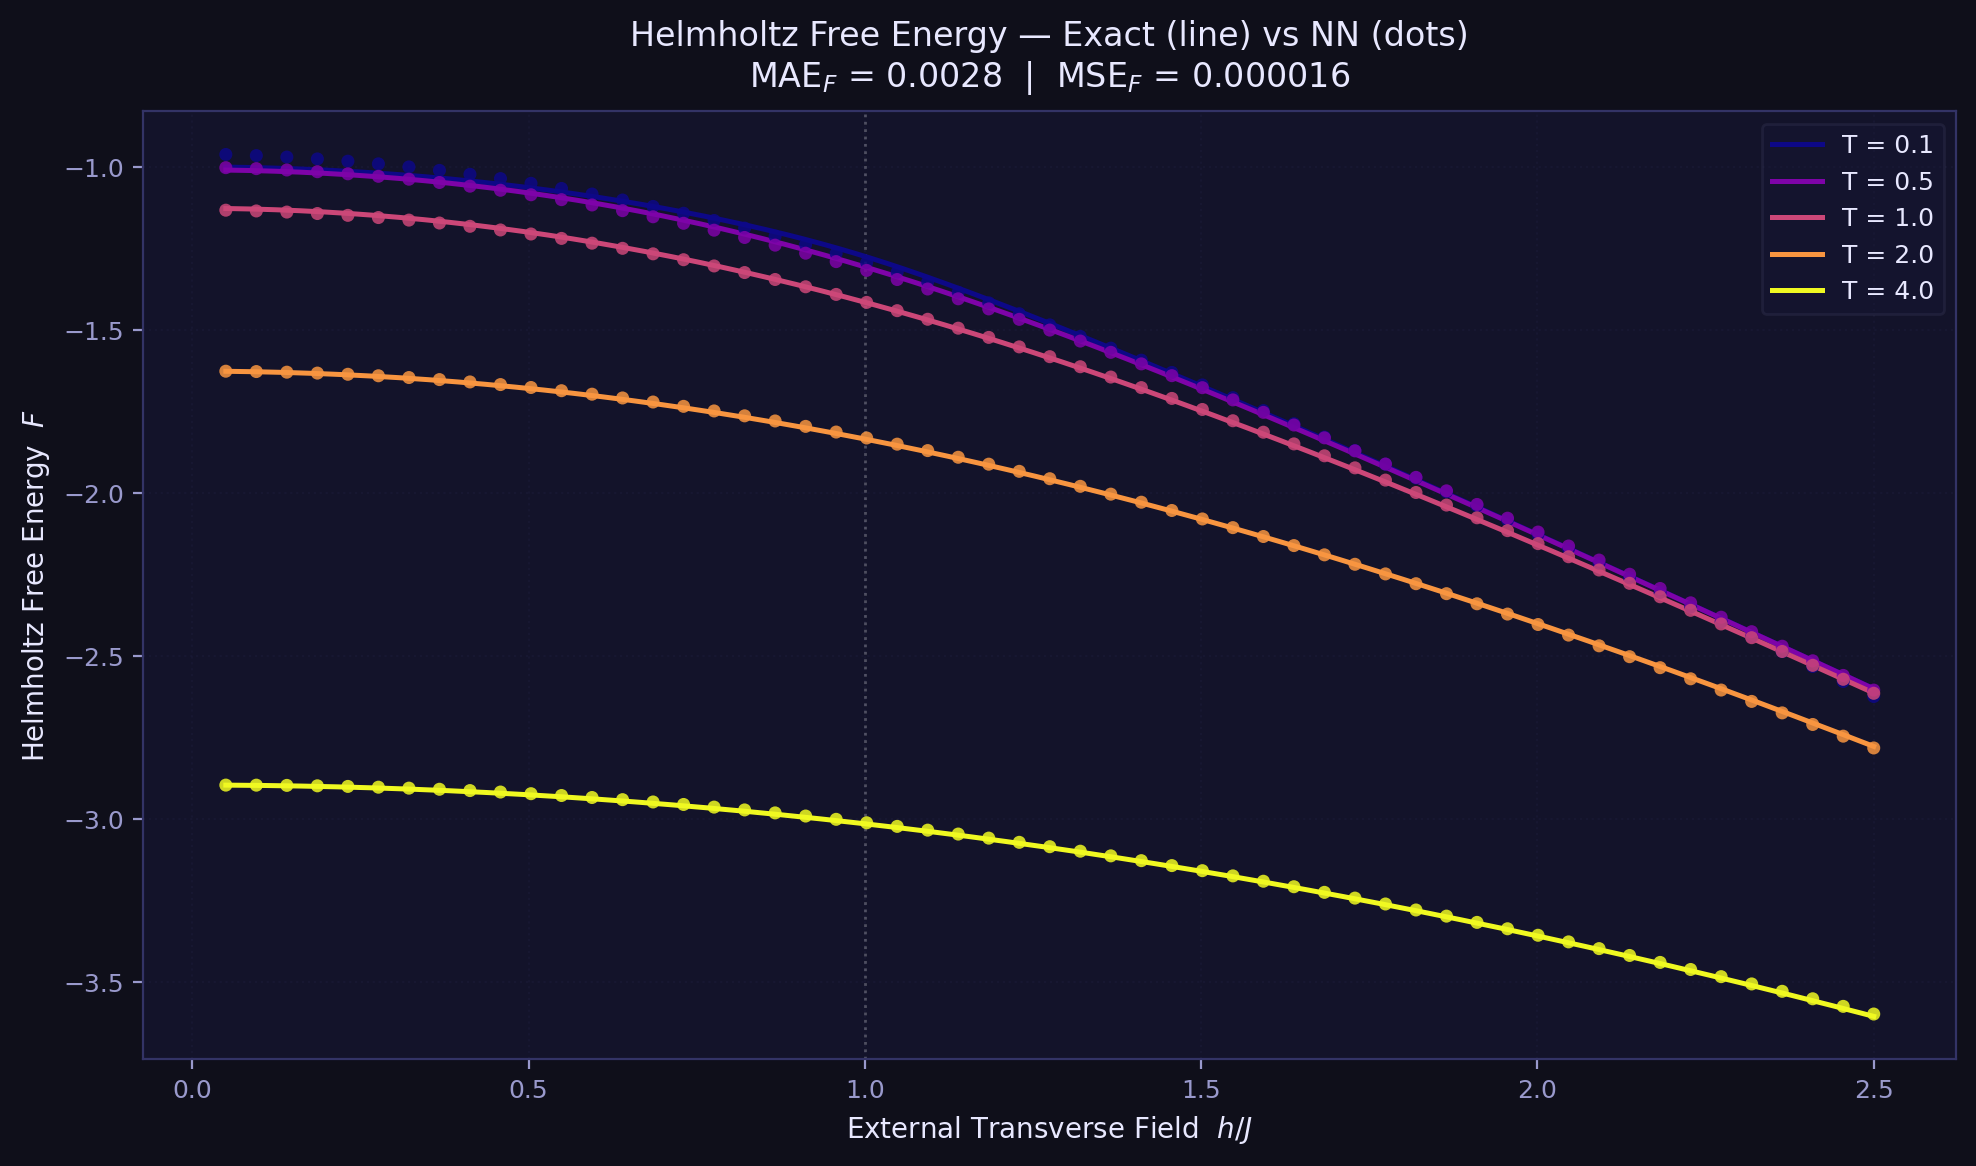
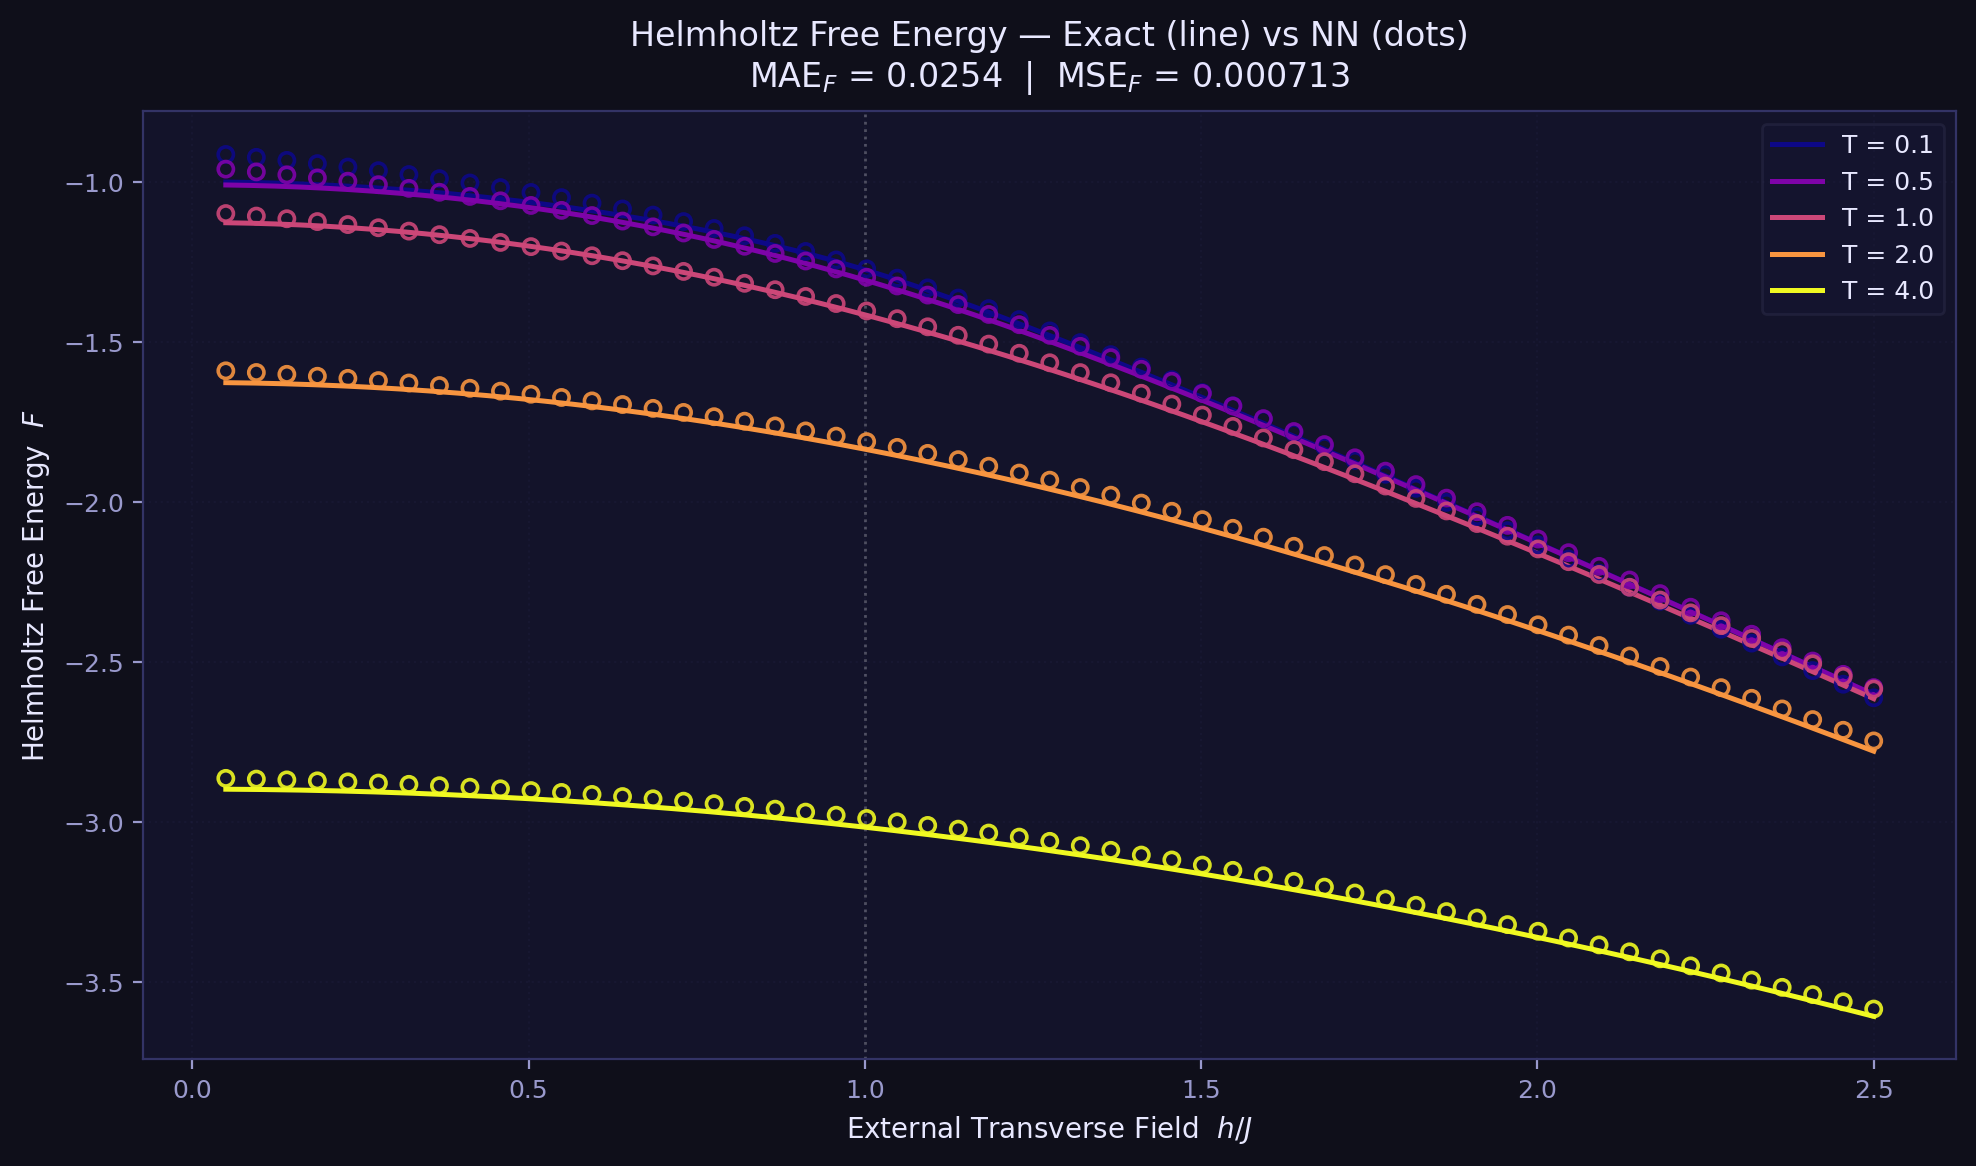
test(nn): switch 2nd output Mz->chi (susceptibility = -d2F/dh2)
Physical fix:
- Mz = -dF/dh (1st deriv) shows monotone curve, no visible phase transition
- chi = -d2F/dh2 (2nd deriv) diverges/peaks at h=1 -> QPT clearly visible
- epsilon 1e-12 -> 1e-8 for 2nd derivative numerical stability

Code changes:
- _mz_raw/_d2F removed, added _d2F_dh2_raw + _chi_raw
- vmap_Mz -> vmap_chi
- Model head renamed: Mz_head -> chi_head
- Dataset labels Y[:,1] now chi instead of Mz
- Eval variables mse_Mz/mae_Mz -> mse_chi/mae_chi

Visualization:
- Fig C title/ylabel updated to susceptibility chi
- Scatter dots: hollow markers (facecolors=none, edgecolors=col) for readability
- figC_magnetization_sweep.png -> figC_susceptibility_sweep.png

Results: F MAE=0.025, chi MAE=0.011, NN 2.3x faster than exact

diff --git a/testJin/nn_learning.py b/testJin/nn_learning.py
@@ -15,26 +15,27 @@ HERE = Path(__file__).parent   # 항상 testJin/ 기준으로 저장
 # ==========================================
 def _free_energy_raw(h, T, num_k=2000):
     """JIT 없는 raw 버전 — grad/vmap 조합 시 사용
-    NOTE: eps_k의 sqrt 안에 1e-12를 더해 h≈1(임계점)에서 gradient NaN 방지
+    NOTE: eps_k의 sqrt 안에 1e-8을 더해 h≈1(임계점)에서 1·2차 gradient NaN 방지
     """
     beta = 1.0 / T
     k = jnp.linspace(0, jnp.pi, num_k)
-    arg = 1.0 + h**2 - 2.0 * h * jnp.cos(k) + 1e-12  # ← numerical stability
+    arg = 1.0 + h**2 - 2.0 * h * jnp.cos(k) + 1e-8   # ← 2차 미분 안정성을 위해 1e-8
     eps_k = 2.0 * jnp.sqrt(arg)
     x = beta * eps_k / 2.0
     return -T * jnp.mean(jnp.logaddexp(x, -x))
 
-# M_z = -∂F/∂h  (열역학 관계식) — raw 위에 grad 걸어야 NaN 없음
+# χ = -∂²F/∂h²  (횡방향 자화율, 2차 미분) — 상전이에서 발산 → 드라마틱한 시인성
 _dF_dh_raw    = jax.grad(_free_energy_raw, argnums=0)
-_mz_raw       = lambda h, T: -_dF_dh_raw(h, T)
+_d2F_dh2_raw  = jax.grad(_dF_dh_raw,      argnums=0)
+_chi_raw      = lambda h, T: -_d2F_dh2_raw(h, T)      # χ = -∂²F/∂h²
 
 # vmap 먼저, jit은 마지막에
-vmap_F  = jax.jit(jax.vmap(_free_energy_raw, in_axes=(0, 0)))
-vmap_Mz = jax.jit(jax.vmap(_mz_raw,         in_axes=(0, 0)))
+vmap_F   = jax.jit(jax.vmap(_free_energy_raw, in_axes=(0, 0)))
+vmap_chi = jax.jit(jax.vmap(_chi_raw,         in_axes=(0, 0)))
 
 # ==========================================
 # 2. 모델 정의 (멀티태스크 Surrogate)
-#    입력: (T, h)  →  출력: (F, M_z)
+#    입력: (T, h)  →  출력: (F, χ)
 # ==========================================
 # 입력 정규화 상수 (학습 안정성)
 T_SCALE = 8.0    # T  ∈ [0.05, 8.0]  → [~0, 1]
@@ -55,24 +56,24 @@ class TFIMSurrogate(nn.Module):
         z = nn.Dense(self.hidden_dims)(z)
         z = nn.softplus(z)
         # 각 물리량별 head
-        F_head  = nn.Dense(self.hidden_dims // 2)(z)
-        F_head  = nn.softplus(F_head)
-        F_pred  = nn.Dense(1)(F_head)                    # 자유에너지
+        F_head   = nn.Dense(self.hidden_dims // 2)(z)
+        F_head   = nn.softplus(F_head)
+        F_pred   = nn.Dense(1)(F_head)                   # 자유에너지
 
-        Mz_head = nn.Dense(self.hidden_dims // 2)(z)
-        Mz_head = nn.softplus(Mz_head)
-        Mz_pred = nn.Dense(1)(Mz_head)                   # 자화
+        chi_head = nn.Dense(self.hidden_dims // 2)(z)
+        chi_head = nn.softplus(chi_head)
+        chi_pred = nn.Dense(1)(chi_head)                 # 횡방향 자화율 χ = -∂²F/∂h²
 
-        return jnp.concatenate([F_pred, Mz_pred], axis=-1)  # (batch, 2)
+        return jnp.concatenate([F_pred, chi_pred], axis=-1)  # (batch, 2)
 
 # ==========================================
 # 3. 데이터셋 생성
 #    X: (N, 2)  = [T, h]
-#    Y: (N, 2)  = [F, M_z]
+#    Y: (N, 2)  = [F, χ]   ← χ = -∂²F/∂h² (횡방향 자화율)
 # ==========================================
 def generate_dataset(num_samples: int = 15000):
     print(f"\n--- 데이터 생성 ---")
-    print(f"총 {num_samples}개의 레이블 데이터 (T, h) → (F, Mz) 생성 중...")
+    print(f"총 {num_samples}개의 레이블 데이터 (T, h) → (F, χ) 생성 중...")
 
     key = random.PRNGKey(42)
     key_t, key_h, key_shuf = random.split(key, 3)
@@ -84,17 +85,17 @@ def generate_dataset(num_samples: int = 15000):
     h_samp = random.uniform(key_h, (num_samples,), minval=0.05, maxval=2.5)
 
     # JIT 워밍업
-    _ = vmap_F( h_samp[:2], T_samp[:2])
-    _ = vmap_Mz(h_samp[:2], T_samp[:2])
+    _ = vmap_F(  h_samp[:2], T_samp[:2])
+    _ = vmap_chi(h_samp[:2], T_samp[:2])
 
     t0 = time.time()
-    F_vals  = vmap_F( h_samp, T_samp)
-    Mz_vals = vmap_Mz(h_samp, T_samp)
-    jax.block_until_ready(F_vals); jax.block_until_ready(Mz_vals)
+    F_vals   = vmap_F(  h_samp, T_samp)
+    chi_vals = vmap_chi(h_samp, T_samp)
+    jax.block_until_ready(F_vals); jax.block_until_ready(chi_vals)
     print(f"데이터 생성 소요 시간: {time.time()-t0:.4f} 초")
 
-    X = jnp.stack([T_samp, h_samp], axis=1)              # (N, 2)
-    Y = jnp.stack([F_vals, Mz_vals], axis=1)             # (N, 2)
+    X = jnp.stack([T_samp, h_samp], axis=1)               # (N, 2)
+    Y = jnp.stack([F_vals, chi_vals], axis=1)              # (N, 2)
 
     # 셔플 후 8:2 분할
     idx = random.permutation(key_shuf, num_samples)
@@ -186,22 +187,22 @@ if __name__ == "__main__":
     # Exact 재계산 시간
     _ = vmap_F(X_te[:1, 1], X_te[:1, 0])           # 워밍업
     t0 = time.time()
-    F_exact  = vmap_F( X_te[:, 1], X_te[:, 0])
-    Mz_exact = vmap_Mz(X_te[:, 1], X_te[:, 0])
-    jax.block_until_ready(F_exact); jax.block_until_ready(Mz_exact)
+    F_exact   = vmap_F(  X_te[:, 1], X_te[:, 0])
+    chi_exact = vmap_chi(X_te[:, 1], X_te[:, 0])
+    jax.block_until_ready(F_exact); jax.block_until_ready(chi_exact)
     exact_time = time.time() - t0
 
-    F_pred_te  = Y_pred[:, 0]
-    Mz_pred_te = Y_pred[:, 1]
+    F_pred_te   = Y_pred[:, 0]
+    chi_pred_te = Y_pred[:, 1]
 
-    mse_F  = float(jnp.mean((F_pred_te  - Y_te[:, 0]) ** 2))
-    mae_F  = float(jnp.mean(jnp.abs(F_pred_te  - Y_te[:, 0])))
-    mse_Mz = float(jnp.mean((Mz_pred_te - Y_te[:, 1]) ** 2))
-    mae_Mz = float(jnp.mean(jnp.abs(Mz_pred_te - Y_te[:, 1])))
+    mse_F   = float(jnp.mean((F_pred_te   - Y_te[:, 0]) ** 2))
+    mae_F   = float(jnp.mean(jnp.abs(F_pred_te   - Y_te[:, 0])))
+    mse_chi = float(jnp.mean((chi_pred_te - Y_te[:, 1]) ** 2))
+    mae_chi = float(jnp.mean(jnp.abs(chi_pred_te - Y_te[:, 1])))
 
     print("\n--- 평가 결과 (Test set) ---")
-    print(f"  F  | MSE: {mse_F:.6f}  MAE: {mae_F:.6f}")
-    print(f"  Mz | MSE: {mse_Mz:.6f}  MAE: {mae_Mz:.6f}")
+    print(f"  F   | MSE: {mse_F:.6f}  MAE: {mae_F:.6f}")
+    print(f"  chi | MSE: {mse_chi:.6f}  MAE: {mae_chi:.6f}")
     print(f"Exact 연산 시간 : {exact_time:.4f} 초")
     print(f"NN 추론 시간    : {nn_time:.4f} 초")
     if nn_time > 0:
@@ -267,34 +268,37 @@ if __name__ == "__main__":
 
     figC, axC = plt.subplots(figsize=(10, 6))
     figC.patch.set_facecolor(BG)
-    figC.canvas.manager.set_window_title('Fig C — Magnetization: Exact vs NN')
+    figC.canvas.manager.set_window_title('Fig C — Susceptibility: Exact vs NN')
     dark_ax(axC,
-            r'Magnetization $M_z = -\partial F / \partial h$ — Exact (line) vs NN (dots)'
-            f'\nMAE$_{{Mz}}$ = {mae_Mz:.4f}  |  MSE$_{{Mz}}$ = {mse_Mz:.6f}',
+            r'Transverse Susceptibility $\chi = -\partial^2 F / \partial h^2$'
+            r' — Exact (line) vs NN (dots)'
+            f'\nMAE$_{{\\chi}}$ = {mae_chi:.4f}  |  MSE$_{{\\chi}}$ = {mse_chi:.6f}',
             'External Transverse Field  $h / J$',
-            r'Magnetization  $M_z$')
+            r'Susceptibility  $\chi$')
 
     for i, T_val in enumerate(T_plot_list):
         col   = plot_colors[i]
         label = f'T = {T_val}'
 
         # ── Exact 선 ────────────────────────────────────────
-        T_vec_line = jnp.full_like(h_line, T_val)
-        F_line_ex  = vmap_F( h_line, T_vec_line)
-        Mz_line_ex = vmap_Mz(h_line, T_vec_line)
-        axB.plot(h_line, F_line_ex,  color=col, lw=1.8, label=label)
-        axC.plot(h_line, Mz_line_ex, color=col, lw=1.8, label=label)
+        T_vec_line  = jnp.full_like(h_line, T_val)
+        F_line_ex   = vmap_F(  h_line, T_vec_line)
+        chi_line_ex = vmap_chi(h_line, T_vec_line)
+        axB.plot(h_line, F_line_ex,   color=col, lw=1.8, label=label)
+        axC.plot(h_line, chi_line_ex, color=col, lw=1.8, label=label)
 
-        # ── NN 예측 점 ───────────────────────────────────────
+        # ── NN 예측 점 (hollow 마커 — 시인성) ─────────────────
         T_vec_dots = jnp.full((len(h_dots),), T_val)
         X_dots     = jnp.stack([T_vec_dots, h_dots], axis=1)  # (N,2): [T, h]
-        Y_dots_nn  = predict(state.params, X_dots)             # (N,2): [F, Mz]
+        Y_dots_nn  = predict(state.params, X_dots)             # (N,2): [F, χ]
         axB.scatter(h_dots, Y_dots_nn[:, 0],
-                    color=col, s=22, alpha=0.85, marker='o',
-                    edgecolors='none', zorder=3, label='_nolegend_')
+                    facecolors='none', edgecolors=col,
+                    s=30, lw=1.3, alpha=0.9, marker='o',
+                    zorder=3, label='_nolegend_')
         axC.scatter(h_dots, Y_dots_nn[:, 1],
-                    color=col, s=22, alpha=0.85, marker='o',
-                    edgecolors='none', zorder=3, label='_nolegend_')
+                    facecolors='none', edgecolors=col,
+                    s=30, lw=1.3, alpha=0.9, marker='o',
+                    zorder=3, label='_nolegend_')
 
     # 범례 — 선만 표시 (색=온도 대응)
     for ax in (axB, axC):
@@ -305,9 +309,9 @@ if __name__ == "__main__":
     figB.savefig(HERE / 'figB_free_energy_sweep.png', dpi=200,
                  bbox_inches='tight', facecolor=figB.get_facecolor())
     figC.tight_layout()
-    figC.savefig(HERE / 'figC_magnetization_sweep.png', dpi=200,
+    figC.savefig(HERE / 'figC_susceptibility_sweep.png', dpi=200,
                  bbox_inches='tight', facecolor=figC.get_facecolor())
 
     print("\nSaved: figA_learning_curve.png, figB_free_energy_sweep.png, "
-          "figC_magnetization_sweep.png")
+          "figC_susceptibility_sweep.png")
     plt.show()  # 3개 창 동시 표시